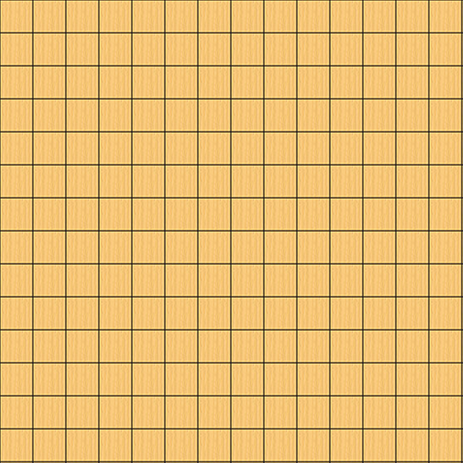
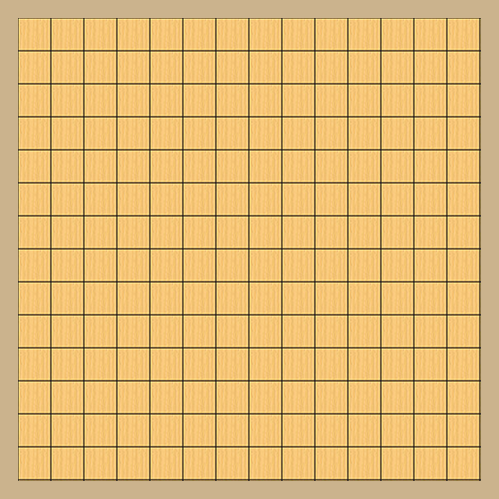
Add turnLCD

diff --git a/gamemanager.cpp b/gamemanager.cpp
@@ -8,8 +8,14 @@
 #include "player.h"
 #include "humanplayer.h"
 #include "computerplayer.h"
+#include "mainwindow.h"
 
 GameManager* GameManager::instance = nullptr;
+MainWindow* GameManager::windowUI = nullptr;
+
+void GameManager::Init(MainWindow* _window){
+    windowUI = _window;
+}
 
 GameManager* GameManager::getInstance(){
     if(instance == nullptr){
@@ -30,9 +36,10 @@ void GameManager::initGame(){
     if(client != nullptr || opponent != nullptr){
         delete client;
         delete opponent;
+        windowUI->setTurnNumber("0");
     }
 
-    turn = 1;
+    turn = 0;
 
     game.isOver = false;
 
@@ -199,10 +206,16 @@ GameManager::GameManager(){
 
 Player* GameManager::getPlayerByTurn() const{
     if(game.p_order == gameOrder::playerFirst){
-        return (turn % 2 == 1) ? client : opponent;
+        return (turn % 2 == 0) ? client : opponent;
     }
     else {
-        return (turn % 2 == 1) ? opponent : client;
+        return (turn % 2 == 0) ? opponent : client;
     }
+}
+
+
+void GameManager::nextTurn(){
+    ++turn;
+    windowUI->setTurnNumber(QString::number(turn));
 }
 

diff --git a/resourcemanager.cpp b/resourcemanager.cpp
@@ -1,4 +1,5 @@
 #include "resourcemanager.h"
+#include "constant.h"
 
 ResourceManager* ResourceManager::instance = nullptr;
 
@@ -32,7 +33,7 @@ void ResourceManager::genWhiteStone(GameScene& scene, std::pair<int, int> pos){
 
     auto whiteStoneItem = new QGraphicsPixmapItem(*whiteStone);
 
-    whiteStoneItem->setPos(pos.first, pos.second);
+    whiteStoneItem->setPos(pos.first + START_PT, pos.second + START_PT);
 
     items->push_back(whiteStoneItem);
 
@@ -43,7 +44,7 @@ void ResourceManager::genBlackStone(GameScene& scene, std::pair<int, int> pos){
 
     auto blackStoneItem = new QGraphicsPixmapItem(*blackStone);
 
-    blackStoneItem->setPos(pos.first, pos.second);
+    blackStoneItem->setPos(pos.first + START_PT, pos.second + START_PT);
 
     items->push_back(blackStoneItem);
 

diff --git a/mainwindow.cpp b/mainwindow.cpp
@@ -9,14 +9,18 @@ MainWindow::MainWindow(QWidget *parent) :
     QMainWindow(parent),
     ui(new Ui::MainWindow)
 {
+    GameManager::Init(this);
     GameManager::getInstance();
     setFixedSize(WIN_SIZE_X, WIN_SIZE_Y);
     ui->setupUi(this);
     gameScene = new GameScene(this);
     gameScene->boardplateLoad();
     ui->graphicsView->setScene(gameScene);
-    setWindowTitle(WIN_TITLE);
 
+    turnLCD = ui->turnLCD;
+    elapsedTimeLCD = ui->elapsedTimeLCD;
+
+    setWindowTitle(WIN_TITLE);
     setMenubar();
 }
 
@@ -80,6 +84,10 @@ MainWindow::~MainWindow()
 {
     delete ui;
     delete modeGroup;
+}
+
+void MainWindow::setTurnNumber(const QString& number){
+    turnLCD->display(number);
 }
 
 void MainWindow::on_actionNew_Game_triggered()

diff --git a/gamemanager.h b/gamemanager.h
@@ -4,6 +4,7 @@
 #include <utility>
 
 class Player;
+class MainWindow;
 
 typedef int TurnNumber;
 
@@ -29,6 +30,8 @@ public:
         Player* winner;
         bool isOver;
     } winnerInfo;
+
+    static void Init(MainWindow* window);
 
     static GameManager* getInstance();
 
@@ -57,9 +60,7 @@ public:
         return turn;
     }
 
-    inline void nextTurn(){
-        ++turn;
-    }
+    void nextTurn();
 
     inline void gameOver(){
         game.isOver = true;
@@ -78,6 +79,8 @@ private:
     Player* opponent;
 
     static GameManager* instance;
+
+    static MainWindow* windowUI;
 
     presentGame game;
 

diff --git a/gamescene.cpp b/gamescene.cpp
@@ -23,8 +23,8 @@ bool GameScene::isValidInput(GameMap map, ClickedPoint clickedPoint){
 
 ClickedPoint GameScene::inputToMap(QPointF& pixelPoint)
 {
-    int x = static_cast<int>(pixelPoint.rx());
-    int y = static_cast<int>(pixelPoint.ry());
+    int x = static_cast<int>(pixelPoint.rx()) - START_PT;
+    int y = static_cast<int>(pixelPoint.ry()) - START_PT;
 
     // relevant 값은 클릭한 값보다 더 적은 ONE_RECT_LENGTH의 (가능한 가장 큰 값인) 배수
     int relevantX = x - (x % ONE_RECT_LENGTH);

diff --git a/mainwindow.h b/mainwindow.h
@@ -3,6 +3,7 @@
 
 #include <QActionGroup>
 #include <QMainWindow>
+#include <QLCDNumber>
 #include "gamescene.h"
 
 namespace Ui {
@@ -14,8 +15,12 @@ class MainWindow : public QMainWindow
     Q_OBJECT
 
 public:
+
     explicit MainWindow(QWidget *parent = nullptr);
+
     ~MainWindow();
+
+    void setTurnNumber(const QString&);
 
 private slots:
 
@@ -42,6 +47,9 @@ private:
     QAction* menuAction;
 
     GameScene *gameScene;
+
+    QLCDNumber *turnLCD;
+    QLCDNumber *elapsedTimeLCD;
 
     void setMenubar();
 

diff --git a/constant.h b/constant.h
@@ -8,6 +8,8 @@
 
 #define BOARD_SIZE 15
 
+#define START_PT 18
+
 #define WIN_SIZE_X 800
 #define WIN_SIZE_Y 600
 
